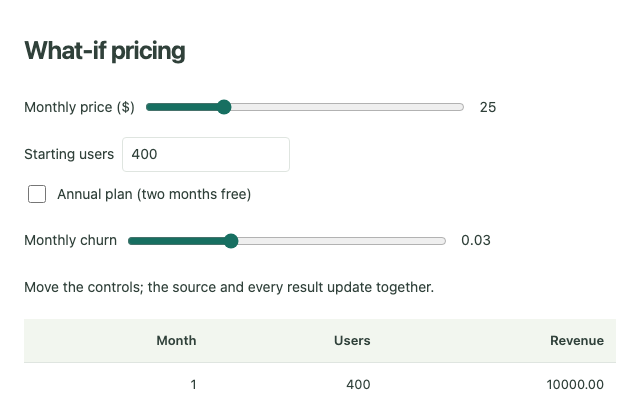
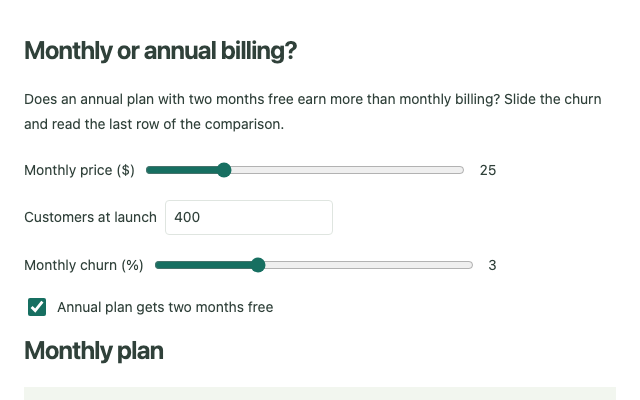
Add gallery what-if models that use controls to answer questions
Replace the toy pricing example with three Org models where sliders,
checkboxes and text fields drive a real decision: monthly versus annual
billing under churn, mortgage affordability with a rate-change table and
a constants summary, and hire versus contract priced with pinned shared
inputs. Their tables matched Emacs 31.1 / Org 9.8.7 in both calculation
modes, and a unit test checks each example's stated findings through the
control write path.

diff --git a/tests/unit/org-controls.test.js b/tests/unit/org-controls.test.js
@@ -1,7 +1,8 @@
 import { test } from "node:test";
 import assert from "node:assert/strict";
 import { readFile } from "node:fs/promises";
-import { renderOrg } from "../../src/formats/org/index.js";
+import { renderOrg, renderOrgWithInputs } from "../../src/formats/org/index.js";
+import { loadOrgInputs } from "../../src/formats/org/inputs.js";
 import { recalculateOrg } from "../../src/formats/org/engine.js";
 import {
   applyControlEdit,
@@ -171,4 +172,54 @@ test("control values are ordinary source, so links and saved documents keep the 
   const saved = HashBinDocuments.parse(HashBinDocuments.serialize({ src, type: "org", view: "preview" }));
   assert.equal(saved.src, src);
   assert.equal(control(renderOrg(saved.src), "price").value, "80");
+});
+
+test("gallery what-if models answer the questions their prose poses", async () => {
+  const example = (name) => readFile(new URL(`../../examples/org/${name}.org`, import.meta.url), "utf8");
+  // Move controls exactly as the preview does, then read labelled result rows.
+  const scenario = async (src, values = {}) => {
+    let controls = renderOrg(src).controls;
+    for (const [name, value] of Object.entries(values)) {
+      const item = controls.find((entry) => entry.id === `org-constant:${name}`),
+        text = controlText(item, value);
+      src = applyControlEdit(src, item.edit, text);
+      controls = shiftControls(controls, item.edit, text);
+    }
+    const result = recalculateOrg(src, { inputs: await loadOrgInputs(src) });
+    assert.deepEqual(result.diagnostics, []);
+    return (label, column = 1) => Number(rows(result).find((row) => row[0] === label)[column]);
+  };
+  for (const name of ["what-if", "mortgage", "hire"]) {
+    const kinds = renderOrg(await example(name)).controls.map(({ kind }) => kind);
+    assert.deepEqual(new Set(kinds), new Set(["slider", "checkbox", "text"]), name);
+  }
+
+  const billing = await example("what-if"), lead = "Annual minus monthly";
+  assert.ok((await scenario(billing, { churn: "3" }))(lead) < 0);
+  assert.ok((await scenario(billing, { churn: "3.5" }))(lead) > 0);
+  assert.ok((await scenario(billing, { free: false }))(lead) > 0);
+  assert.equal((await scenario(billing, { users: "800" }))("Annual, paid up front"), 2 * (await scenario(billing))("Annual, paid up front"));
+
+  const house = await example("mortgage"), base = await scenario(house), pmi = "Mortgage insurance (under 20% down)";
+  assert.ok(base(pmi) > 0);
+  assert.equal((await scenario(house, { down: "20" }))(pmi), 0);
+  const shorter = await scenario(house, { years: "15" });
+  assert.ok(Math.abs(shorter("Monthly payment") - base("Monthly payment") - 970) < 5);
+  assert.ok(shorter("Total interest") < base("Total interest") / 2);
+  const quote = await scenario(house, { escrow: false });
+  assert.equal(quote("Property tax") + quote("Home insurance"), 0);
+  assert.equal(base("0", 2), base("Principal and interest"));
+
+  const hire = await example("hire");
+  assert.match((await renderOrgWithInputs(hire)).html, /Shared inputs/);
+  const ratio = async (values) => {
+    const at = await scenario(hire, values);
+    return at("Total", 1) / at("Total", 2);
+  };
+  assert.ok((await ratio({ start: "11" })) > (await ratio({ start: "1" })));
+  assert.ok((await ratio({ agency: false })) < (await ratio({})));
+  const even = (await scenario(hire))("Break-even contractor rate ($ an hour)"),
+    year = await scenario(hire, { hourly: String(even) });
+  // The rate is rounded to cents: within half a cent over 30 hours for 46 weeks.
+  assert.ok(Math.abs(year("Contractor at this rate and these hours") - year("Employee pay, benefits and tax")) <= 30 * 46 * 0.005);
 });

diff --git a/tests/browser/app.spec.js b/tests/browser/app.spec.js
@@ -196,10 +196,10 @@ test("gallery search and docs render through the application pipeline", async ({
   page,
 }) => {
   await page.goto("/gallery.html");
-  await expect(page.locator(".card")).toHaveCount(37);
-  await expect(page.locator(".card-cover")).toHaveCount(37);
+  await expect(page.locator(".card")).toHaveCount(39);
+  await expect(page.locator(".card-cover")).toHaveCount(39);
   await page.getByLabel("Filter by format").selectOption("org");
-  await expect(page.locator(".card")).toHaveCount(5);
+  await expect(page.locator(".card")).toHaveCount(7);
   await page.getByLabel("Search examples").fill("purchase");
   await expect(page.locator(".card")).toHaveCount(1);
   await expect(page.locator(".card-cover")).toHaveAttribute(

diff --git a/tests/browser/offline.spec.js b/tests/browser/offline.spec.js
@@ -231,7 +231,7 @@ test("opt-in offline files support new source links, vendored workers, docs and 
   await page.goto(base + "docs.html?page=formats/numbat");
   await expect(page.locator("#docs-content h1")).toHaveText("Numbat");
   await page.goto(base + "gallery.html");
-  await expect(page.locator(".card-cover")).toHaveCount(37);
+  await expect(page.locator(".card-cover")).toHaveCount(39);
   await page
     .locator(".card-cover")
     .first()

diff --git a/README.md b/README.md
@@ -8,7 +8,7 @@ avoiding host request-line limits on reload; short query links remain readable.
 
 Supports GitHub Markdown, AsciiMath, Numbat, CalcFile, Org tables, a Calca-compatible
 subset, Hurmet, a Beancount core subset, and Quarto notebooks with Python and R. Includes
-37 gallery examples with rendered previews, format guides, diagnostics, responsive
+39 gallery examples with rendered previews, format guides, diagnostics, responsive
 split views, ACE, and
 sanitized HTML/MathML/SVG output. Download source files, export the finished preview
 as standalone HTML, or print it to PDF. Beancount, Org, Numbat, and Hurmet have
@@ -80,7 +80,7 @@ Unit tests run real Numbat WASM and Hurmet, all 37 required CalcFile conformance
 cases, URL/detection/HashBin/sharing tests, and the recorded GFM corpus (672/672
 raw exact HTML matches, 601/672 production HTML; every deviation classified in
 the format guide). Browser tests render
-all 37 examples in Chromium, Firefox, and WebKit, including real Python and R, and check
+all 39 examples in Chromium, Firefox, and WebKit, including real Python and R, and check
 sharing, cancellation, XSS boundaries, mobile layouts, docs, gallery and reports.
 
 The GFM browser suite separately checks 627/672 final DOM matches, including
@@ -157,7 +157,7 @@ npm run gallery:covers
 node scripts/render-gallery.mjs --only=calcfile-edge --rates-fixture=tests/fixtures/exchange-rates/ecb-api-2026-10-16.csv
 ```
 
-The script starts and stops its own temporary local server, renders all 37
+The script starts and stops its own temporary local server, renders all 39
 examples through the editor, and updates `examples/covers/`. Python examples need
 jsDelivr access; R examples need webr.r-wasm.org. Covers use a 640 × 400 viewport; Beancount examples show the trial
 balance, except the error example, which shows diagnostics. Unit tests check
@@ -201,7 +201,7 @@ account and approval on hashbin.org. See the
 - `src/formats/`: lazy plugins and DOM-free engines.
 - `src/workers/`: disposable Numbat, Hurmet, Python and R interpreters.
 - `src/url-state.js`, `render-scheduler.js`, `hashbin*.js`: state and persistence.
-- `examples/`: four examples per format and the gallery catalog.
+- `examples/`: four examples per format (plus Org what-if models) and the gallery catalog.
 - `docs/`: supported subsets, gaps, sharing and storage guides.
 - `vendor/`: pinned, licensed browser assets. See `vendor/README.md` and `engines.json`.
 - `scripts/vendor/`: one-time dependency builds; never part of deployment.

diff --git a/docs/formats/org.md b/docs/formats/org.md
@@ -314,6 +314,18 @@ constant, a second control for the same constant, a slider without a range or
 with invalid bounds, and unknown options are diagnosed at the control line and
 show no control. A value outside the slider range gives a warning.
 
+Three gallery models use every control kind to answer a question:
+[Monthly or annual billing?](../../index.html?example=org-what-if&format=org)
+finds the churn rate at which a discounted annual plan wins,
+[How much house can I afford?](../../index.html?example=org-mortgage&format=org)
+combines controls with fixed assumptions shown by `#+SHEETS_CONSTANTS: table`
+and a rate-change table, and
+[Hire or contract?](../../index.html?example=org-hire&format=org) puts local
+controls beside read-only [pinned shared inputs](#pinned-shared-inputs). In both
+Sheets calculation modes, their tables matched Emacs 31.1 with Org 9.8.7 when
+written; the last was checked with its shared values substituted as file constants,
+because Emacs has no `$finance.load`.
+
 HTML exports show controls disabled at their current values; exported files run
 no script. Printing shows the current values. This is a Sheets extension, not
 native Org behavior. Date pickers, controls for table cells, scenarios, sweeps

diff --git a/PLAN.md b/PLAN.md
@@ -16,7 +16,7 @@ supports a different set of formats.
 Phases 0–10 are implemented and deployed on GitHub Pages, with the supported
 subsets and compatibility gaps recorded in the format guides. Source downloads,
 standalone rendered HTML exports, preview printing/PDF, and dedicated ACE modes
-for Beancount, Org, Numbat, and Hurmet are also implemented. All 37 gallery
+for Beancount, Org, Numbat, and Hurmet are also implemented. All 39 gallery
 examples have static previews regenerated by `npm run gallery:covers`. Optional
 offline access caches verified app assets, the eight vendored engines, docs,
 and examples; Python, R, and external services still require a connection.
